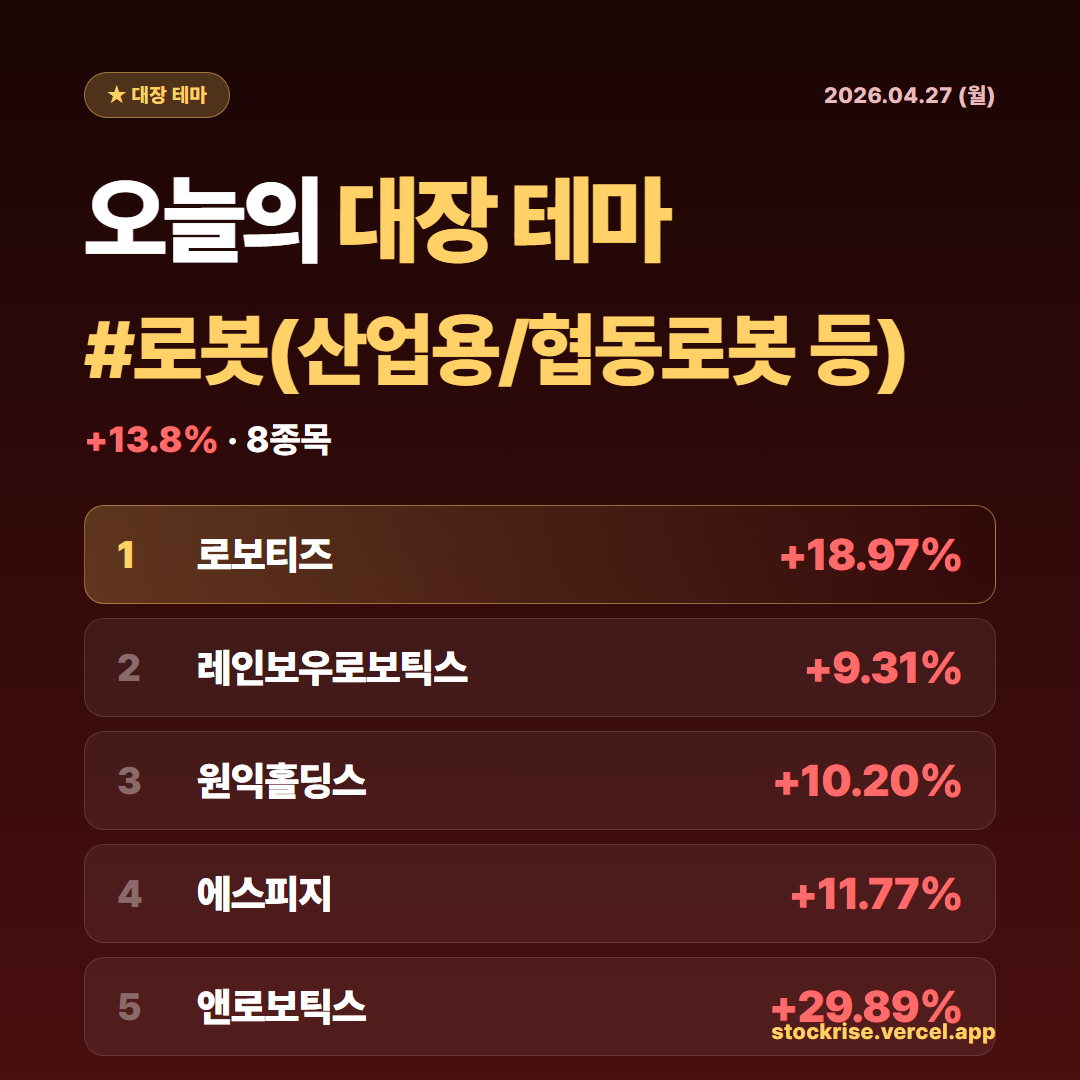
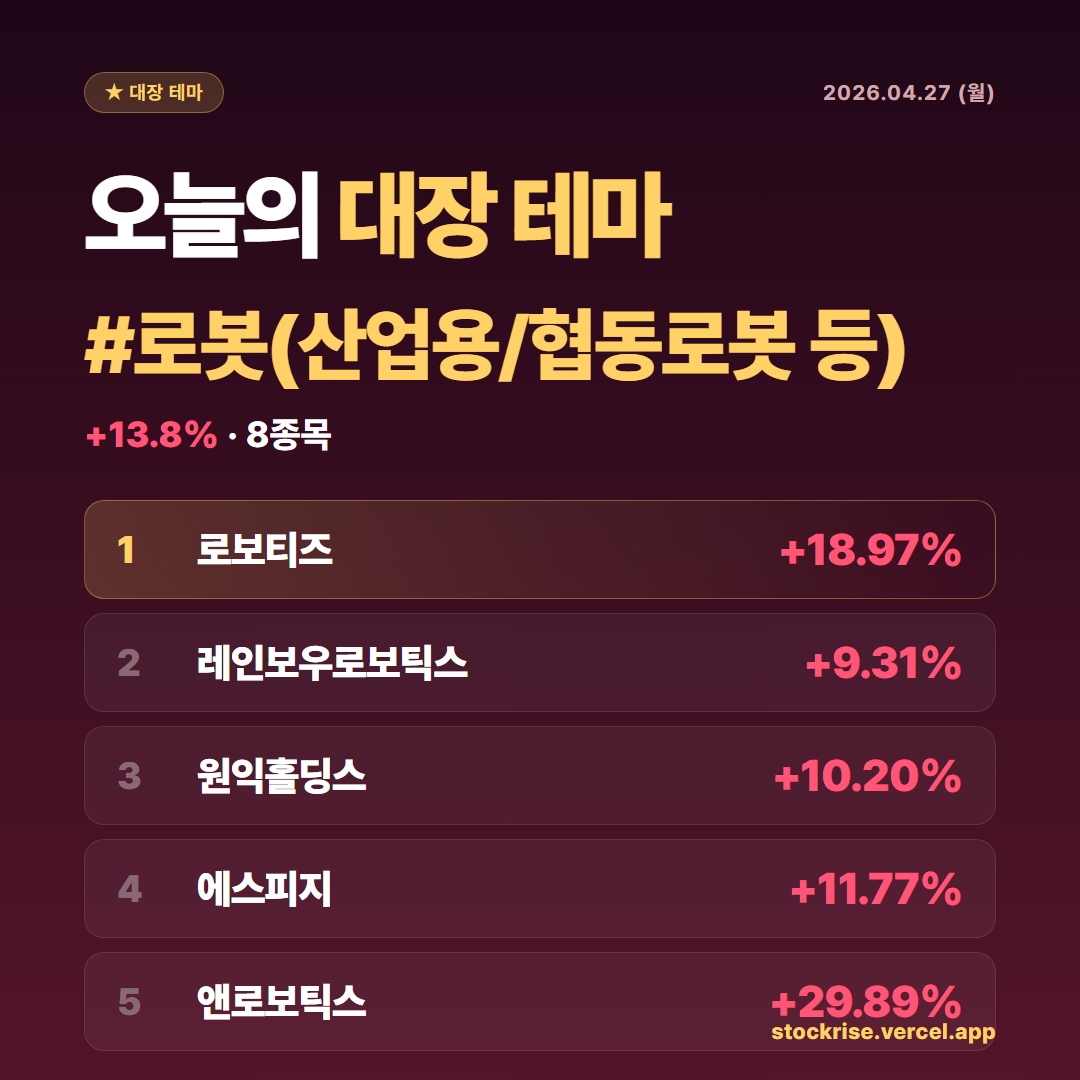
style(cards): 컬러·디자인 리뷰 — 톤 업그레이드 + 헤더 칩 미니멀
5가지 신선한 시점 점검:

A. LEADER 시리즈 톤
   - 이전: bg #1a0505→#4a0f0f (어둡고 갈색-적색, 답답)
   - 이후: bg #1f0717→#54142a (와인-자홍, 채도 ↑)
     accent2 #ff6b6b → #ff5577 (핑크-레드, 강세 강조)
     muted #e8bcbc → #f0c4c8

B. CLOSE 시리즈 톤
   - 이전: bg #1a0a2a→#3a1550 (단조 보라)
   - 이후: bg #181436→#3a2c66 (푸른기 가미 청보라, 마감 분위기)

C. PRE 시리즈 톤
   - bg1 살짝 보정 (#0a0f2a→#0a1130) + accent #ffa64d → #ffb868 (좀 더 따뜻)
   - hot 영역 채도·alpha 조정

D. PRE0(새벽 브리핑) 매크로 영역
   - 이전: 4개 한 줄에 좁게 (cramped)
   - 이후: 2x2 grid · padding 32x40 · gap 56px · 폰트 26px
     m-name 100px 고정·m-pct 우측 정렬로 시선 안정

E. 헤더 칩 미니멀
   - .card-label: padding 8x20, font 19px/700, letter-spacing .04em
   - .card-date: 21px/700, opacity .85, letter-spacing .06em

diff --git a/cards/templates/_base.css b/cards/templates/_base.css
@@ -39,16 +39,17 @@ body {
 }
 .card-label {
   display: inline-block;
-  padding: 10px 22px;
+  padding: 8px 20px;
   border-radius: 100px;
-  font-size: 20px;
-  font-weight: 800;
-  letter-spacing: 0.02em;
+  font-size: 19px;
+  font-weight: 700;
+  letter-spacing: 0.04em;
 }
 .card-date {
-  font-size: 22px;
-  font-weight: 800;
-  letter-spacing: 0.02em;
+  font-size: 21px;
+  font-weight: 700;
+  letter-spacing: 0.06em;
+  opacity: 0.85;
 }
 .eyebrow {
   margin-top: 36px;

diff --git a/cards/config.py b/cards/config.py
@@ -165,28 +165,31 @@ WEEKDAY_EN = ['MONDAY', 'TUESDAY', 'WEDNESDAY', 'THURSDAY', 'FRIDAY', 'SATURDAY'
 
 # ─── 시리즈 컬러 토큰 (Phase 2 템플릿에서 사용) ─────
 COLOR_TOKENS = {
+    # 새벽·장전 = 차분한 네이비 + 오렌지 액센트 (정보 수용 분위기)
     'pre': {
-        'bg1': '#0a0f2a', 'bg2': '#0e1a4a', 'bg3': '#1a2e6a',
-        'accent': '#ffa64d', 'accent2': '#ff6b6b',
+        'bg1': '#0a1130', 'bg2': '#0e1a4a', 'bg3': '#172a5a',
+        'accent': '#ffb868', 'accent2': '#ff6b6b',
         'muted': '#a6bce0', 'text_dim': '#6a82b0',
-        'card_bg': 'rgba(255,255,255,.06)', 'card_border': 'rgba(255,255,255,.12)',
-        'hot_bg1': 'rgba(255,166,77,.18)', 'hot_bg2': 'rgba(255,107,107,.04)',
-        'hot_border': 'rgba(255,166,77,.45)',
+        'card_bg': 'rgba(255,255,255,.05)', 'card_border': 'rgba(255,255,255,.10)',
+        'hot_bg1': 'rgba(255,184,104,.16)', 'hot_bg2': 'rgba(255,107,107,.04)',
+        'hot_border': 'rgba(255,184,104,.36)',
     },
+    # 대장주 = 와인-자홍 (강세 강조, 갈색기 빼고 채도 ↑)
     'leader': {
-        'bg1': '#1a0505', 'bg2': '#330808', 'bg3': '#4a0f0f',
-        'accent': '#ffd166', 'accent2': '#ff6b6b',
-        'muted': '#e8bcbc', 'text_dim': '#8a6a6a',
-        'card_bg': 'rgba(255,255,255,.06)', 'card_border': 'rgba(255,255,255,.12)',
-        'hot_bg1': 'rgba(255,209,102,.22)', 'hot_bg2': 'rgba(255,107,107,.08)',
-        'hot_border': 'rgba(255,209,102,.45)',
+        'bg1': '#1f0717', 'bg2': '#3a0e1c', 'bg3': '#54142a',
+        'accent': '#ffd166', 'accent2': '#ff5577',
+        'muted': '#f0c4c8', 'text_dim': '#8a6a72',
+        'card_bg': 'rgba(255,255,255,.05)', 'card_border': 'rgba(255,255,255,.10)',
+        'hot_bg1': 'rgba(255,209,102,.18)', 'hot_bg2': 'rgba(255,85,119,.06)',
+        'hot_border': 'rgba(255,209,102,.36)',
     },
+    # 마감 = 청보라 (정리·마감 분위기, 푸른기 살짝 추가)
     'close': {
-        'bg1': '#1a0a2a', 'bg2': '#2a1040', 'bg3': '#3a1550',
+        'bg1': '#181436', 'bg2': '#2a2052', 'bg3': '#3a2c66',
         'accent': '#c7a3ff', 'accent2': '#ff6b6b',
         'muted': '#b8a3d8', 'text_dim': '#7a6a99',
-        'card_bg': 'rgba(255,255,255,.06)', 'card_border': 'rgba(255,255,255,.12)',
-        'hot_bg1': 'rgba(255,107,107,.18)', 'hot_bg2': 'rgba(255,107,107,.02)',
-        'hot_border': 'rgba(255,107,107,.4)',
+        'card_bg': 'rgba(255,255,255,.05)', 'card_border': 'rgba(255,255,255,.10)',
+        'hot_bg1': 'rgba(199,163,255,.18)', 'hot_bg2': 'rgba(255,107,107,.04)',
+        'hot_border': 'rgba(199,163,255,.36)',
     },
 }
